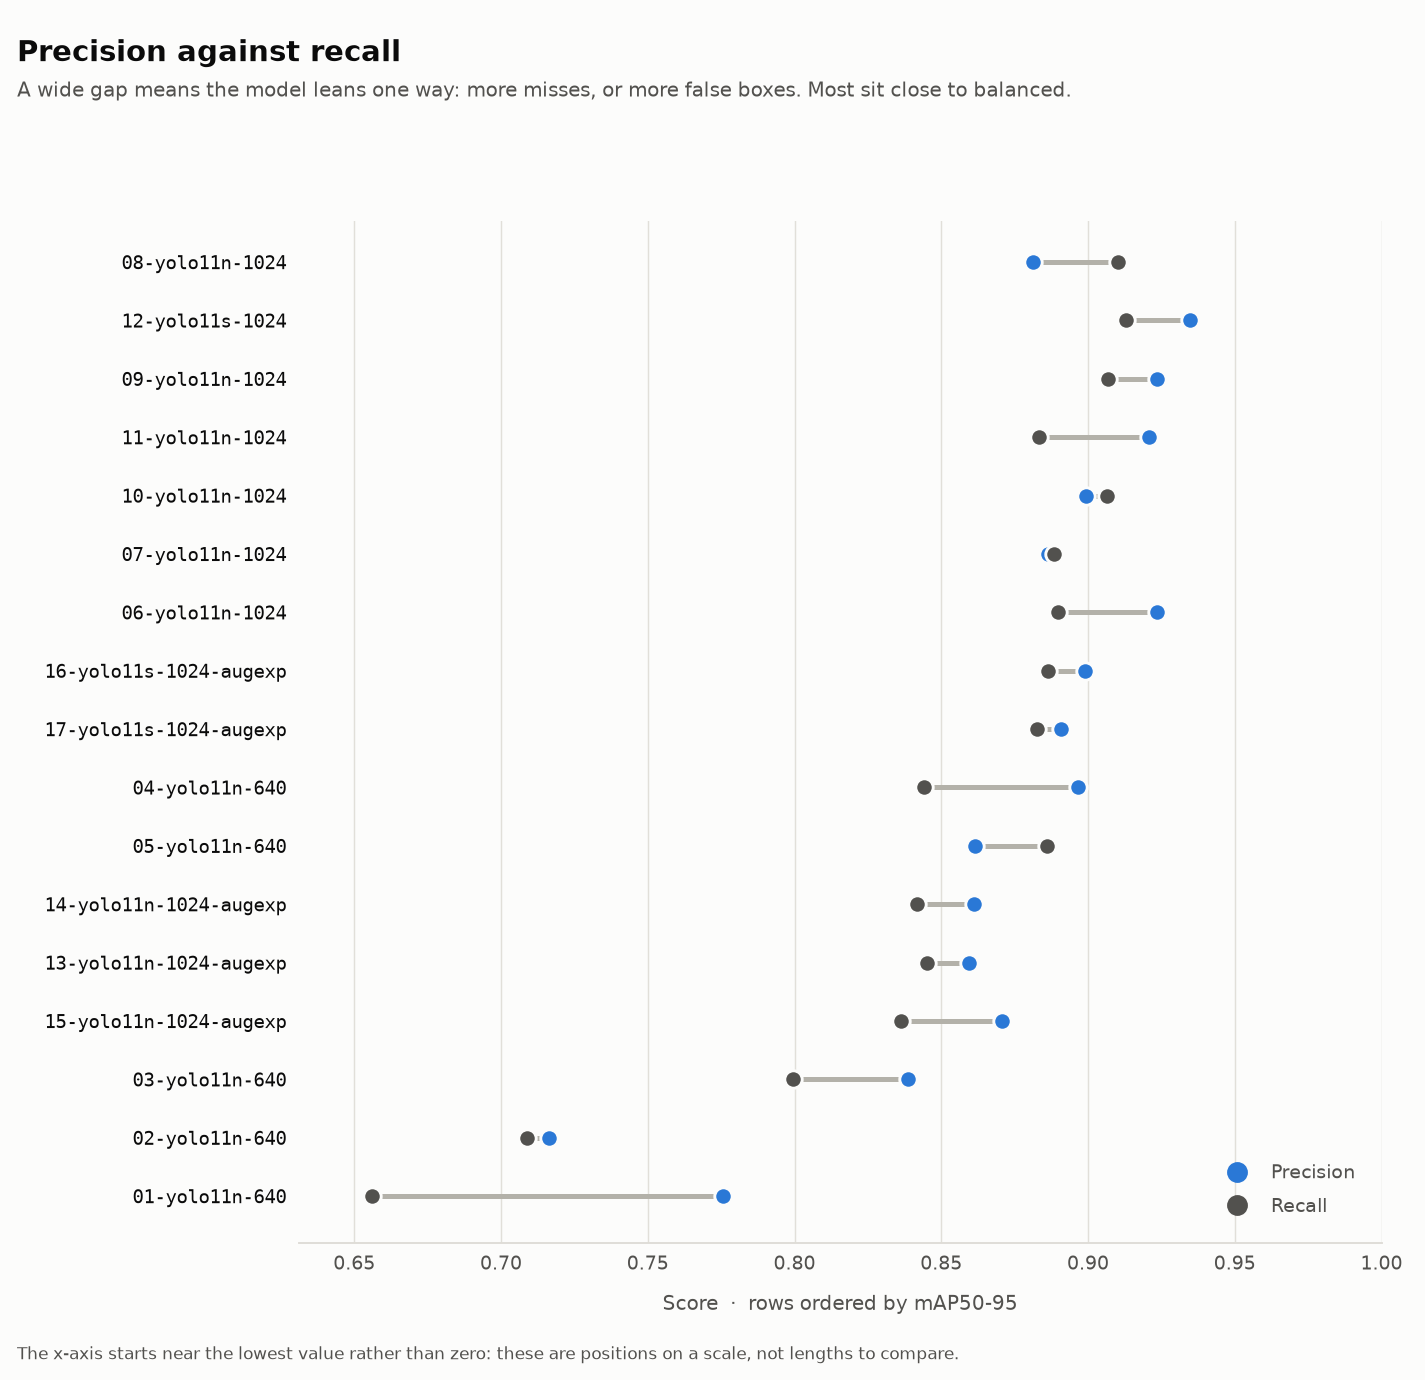
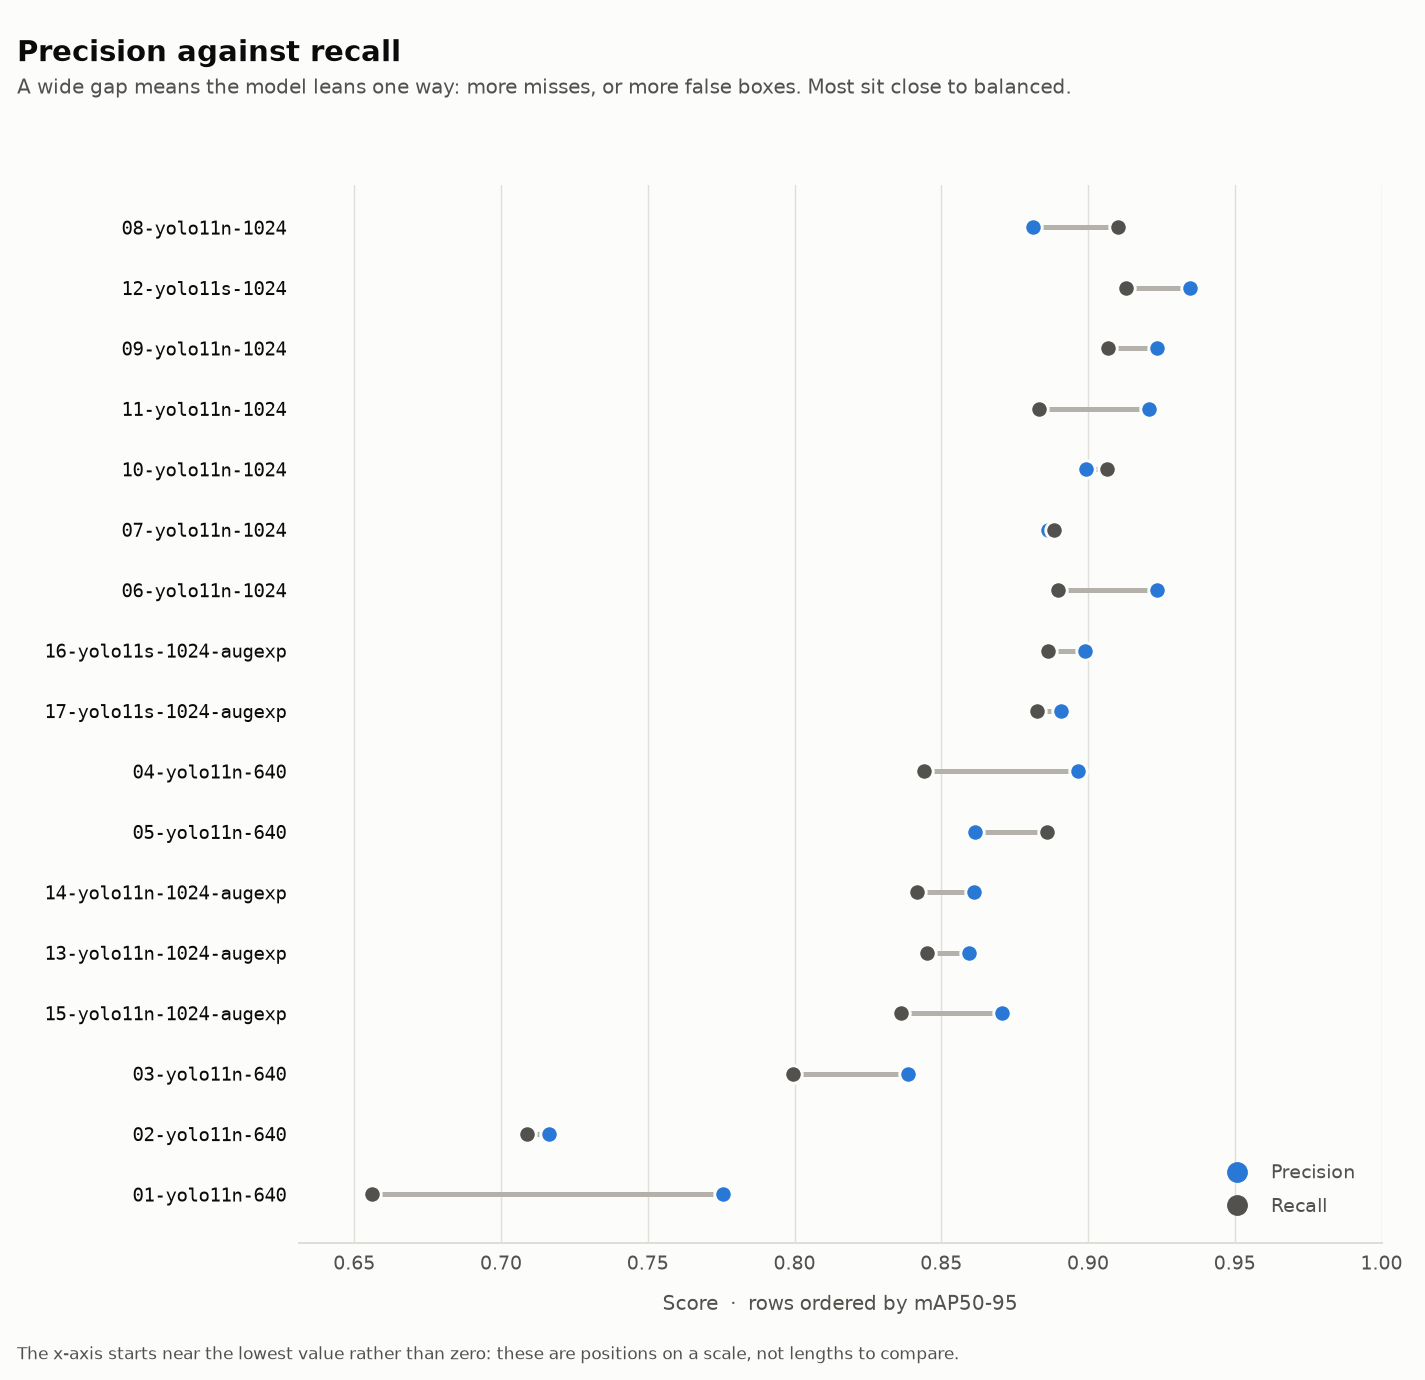
Tighten the title-to-plot gap shared by all four charts
The gap the user flagged on comparison.png was present in every chart, since
all four go through the same _titles() helper. Its reserved top margin was
0.98in regardless of chart height, while the title and subtitle themselves only
need about 0.70in -- the remaining 0.28in was pure dead space between the
subtitle and the first gridline or bar, visible identically across all four
PNGs.

Tightened the reserved margin from 0.98in to 0.74in and nudged the subtitle up
slightly to match. Re-rendered and looked at all four; each keeps clear
separation between its subtitle and its data while losing the empty band above
it.

diff --git a/doclayout_ft/hub/charts.py b/doclayout_ft/hub/charts.py
@@ -90,13 +90,19 @@ def _titles(figure, title: str, subtitle: str) -> float:
     Returns:
         The ``rect`` top to pass to ``tight_layout``.
     """
+    # The subtitle's own text (9.8pt, one line) ends around 0.70in from the
+    # top once its line height is accounted for. The rect top used to be
+    # 0.98in, leaving roughly 0.28in of pure dead space between the subtitle
+    # and the first gridline or bar -- visible as a gap the same size in every
+    # chart, since they all go through this function. Tightened so the rect
+    # starts just past the subtitle, not most of an inch below it.
     height = figure.get_size_inches()[1]
     figure.suptitle(title, x=TITLE_X, y=1 - 0.26 / height, ha="left",
                     va="top", fontsize=TITLE_SIZE, color=TEXT_PRIMARY,
                     fontweight="bold")
-    figure.text(TITLE_X, 1 - 0.54 / height, subtitle, ha="left", va="top",
+    figure.text(TITLE_X, 1 - 0.52 / height, subtitle, ha="left", va="top",
                 fontsize=SUBTITLE_SIZE, color=TEXT_SECONDARY)
-    return 1 - 0.98 / height
+    return 1 - 0.74 / height
 
 
 def _caption(figure, text: str) -> None:
